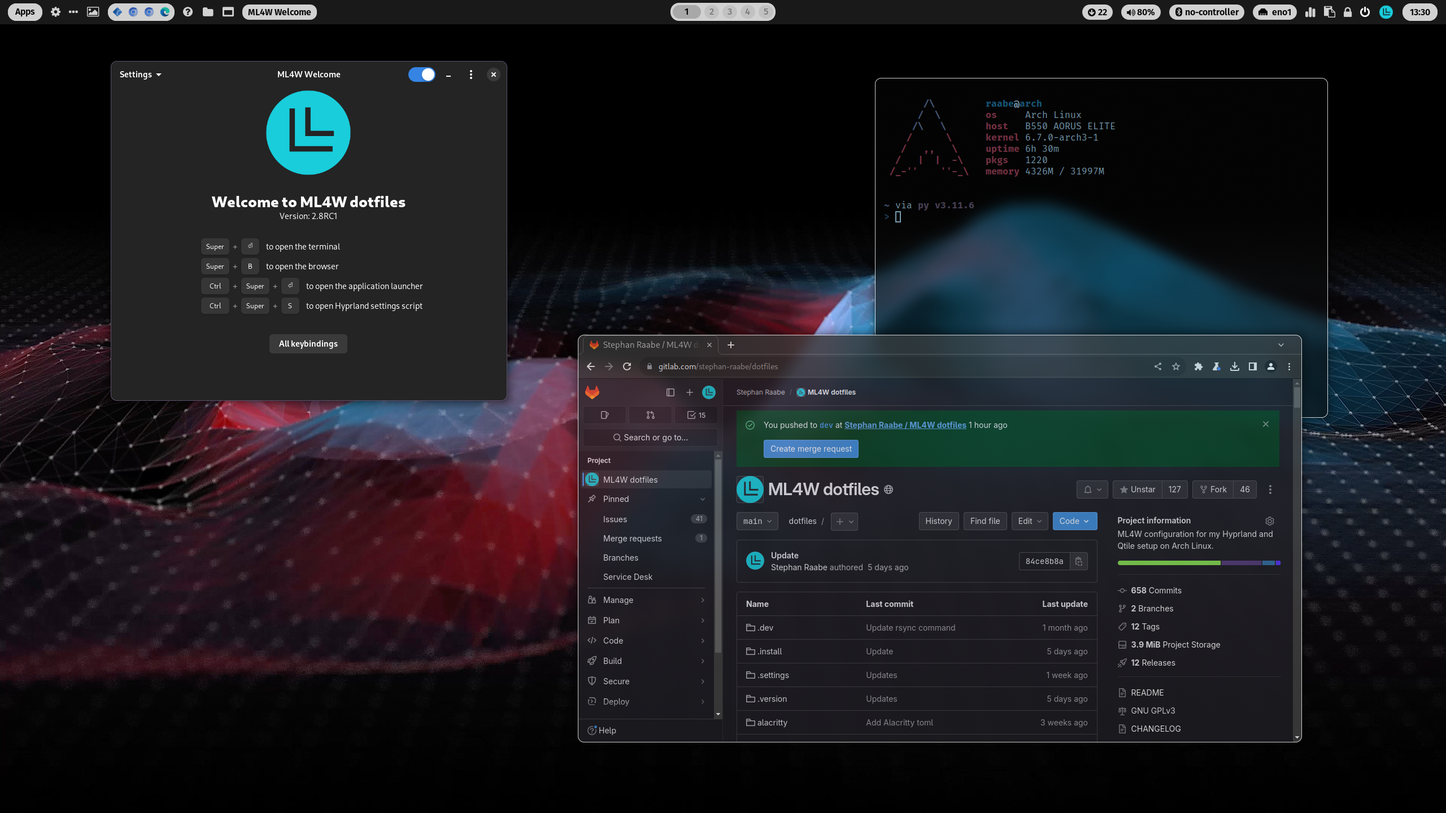
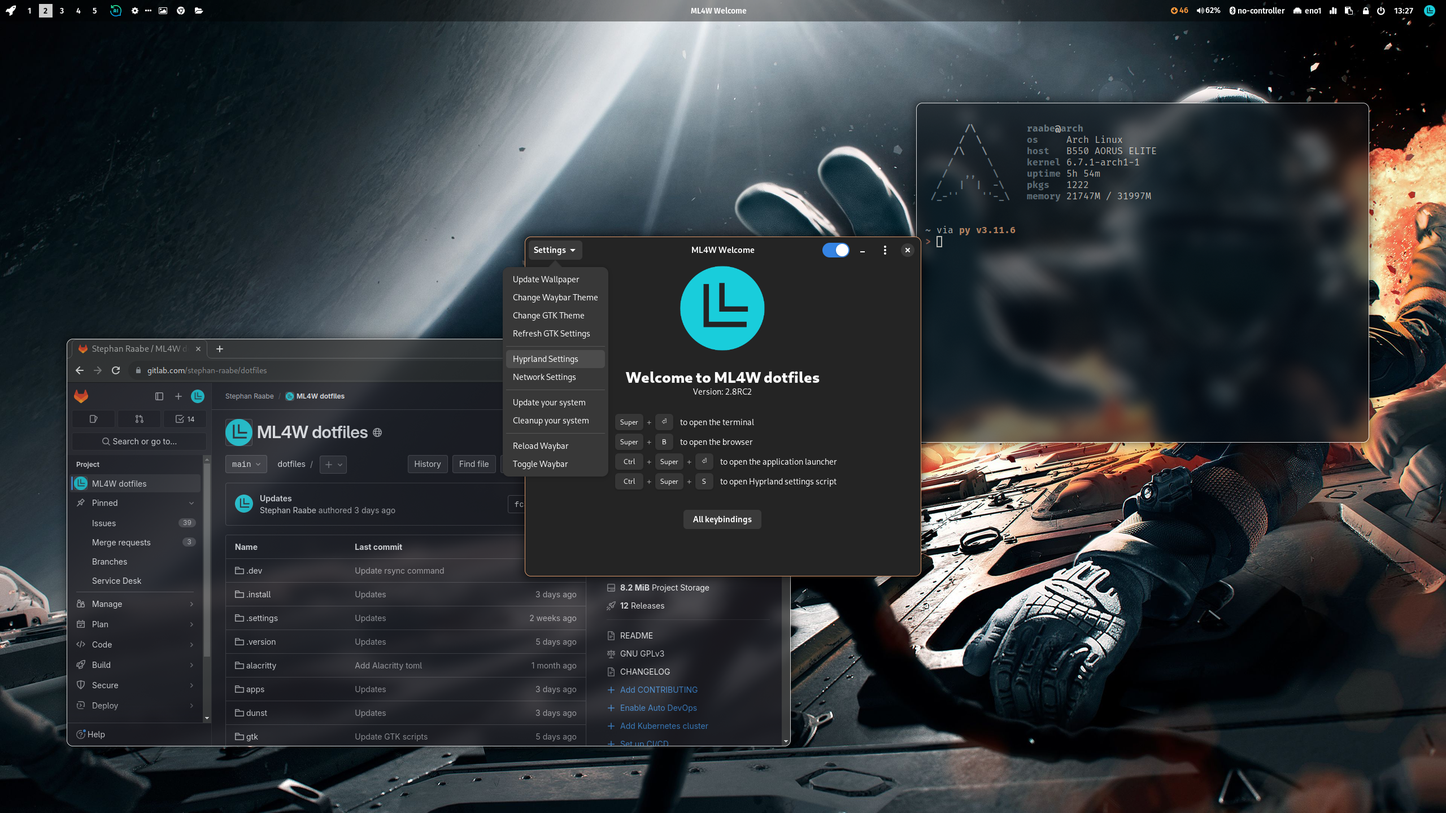
Updates

diff --git a/README.md b/README.md
@@ -191,6 +191,8 @@ All keybindings for Qtile: https://gitlab.com/stephan-raabe/dotfiles/-/blob/main
 
 <a href="https://youtu.be/e9ro_P9rbFk" target="_blank"><img src="screenshots/v28/screenshot-28-2.png" alt="Click to watch on YouTube" /></a>
 
+<a href="https://youtu.be/e9ro_P9rbFk" target="_blank"><img src="screenshots/v28/screenshot-28-3.png" alt="Click to watch on YouTube" /></a>
+
 <b><a href="https://gitlab.com/stephan-raabe/dotfiles/-/tree/main/screenshots?ref_type=heads">You can find more screenshots here.</a></b>
 
 <a href="https://youtu.be/e9ro_P9rbFk" target="_blank">Watch on YouTube</a>
